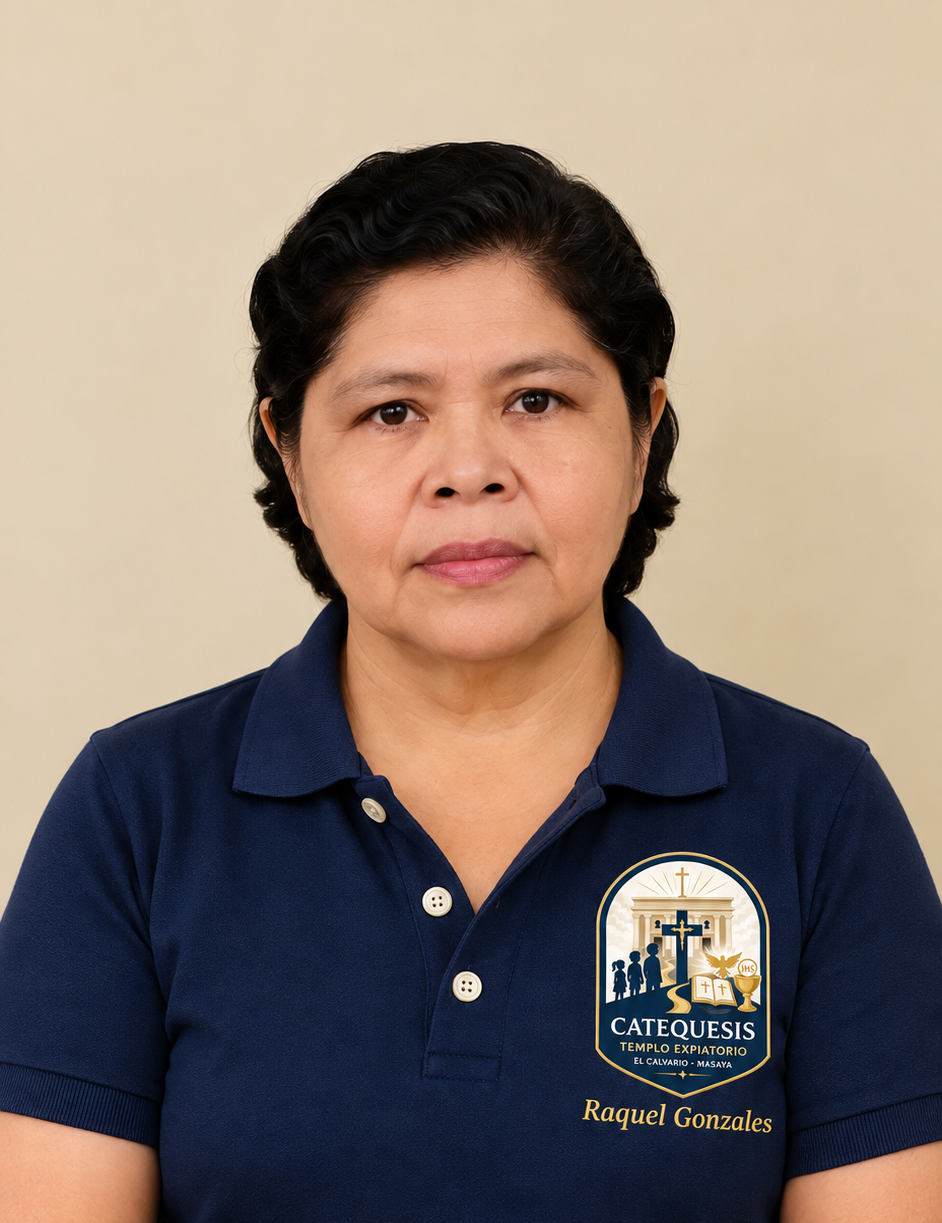
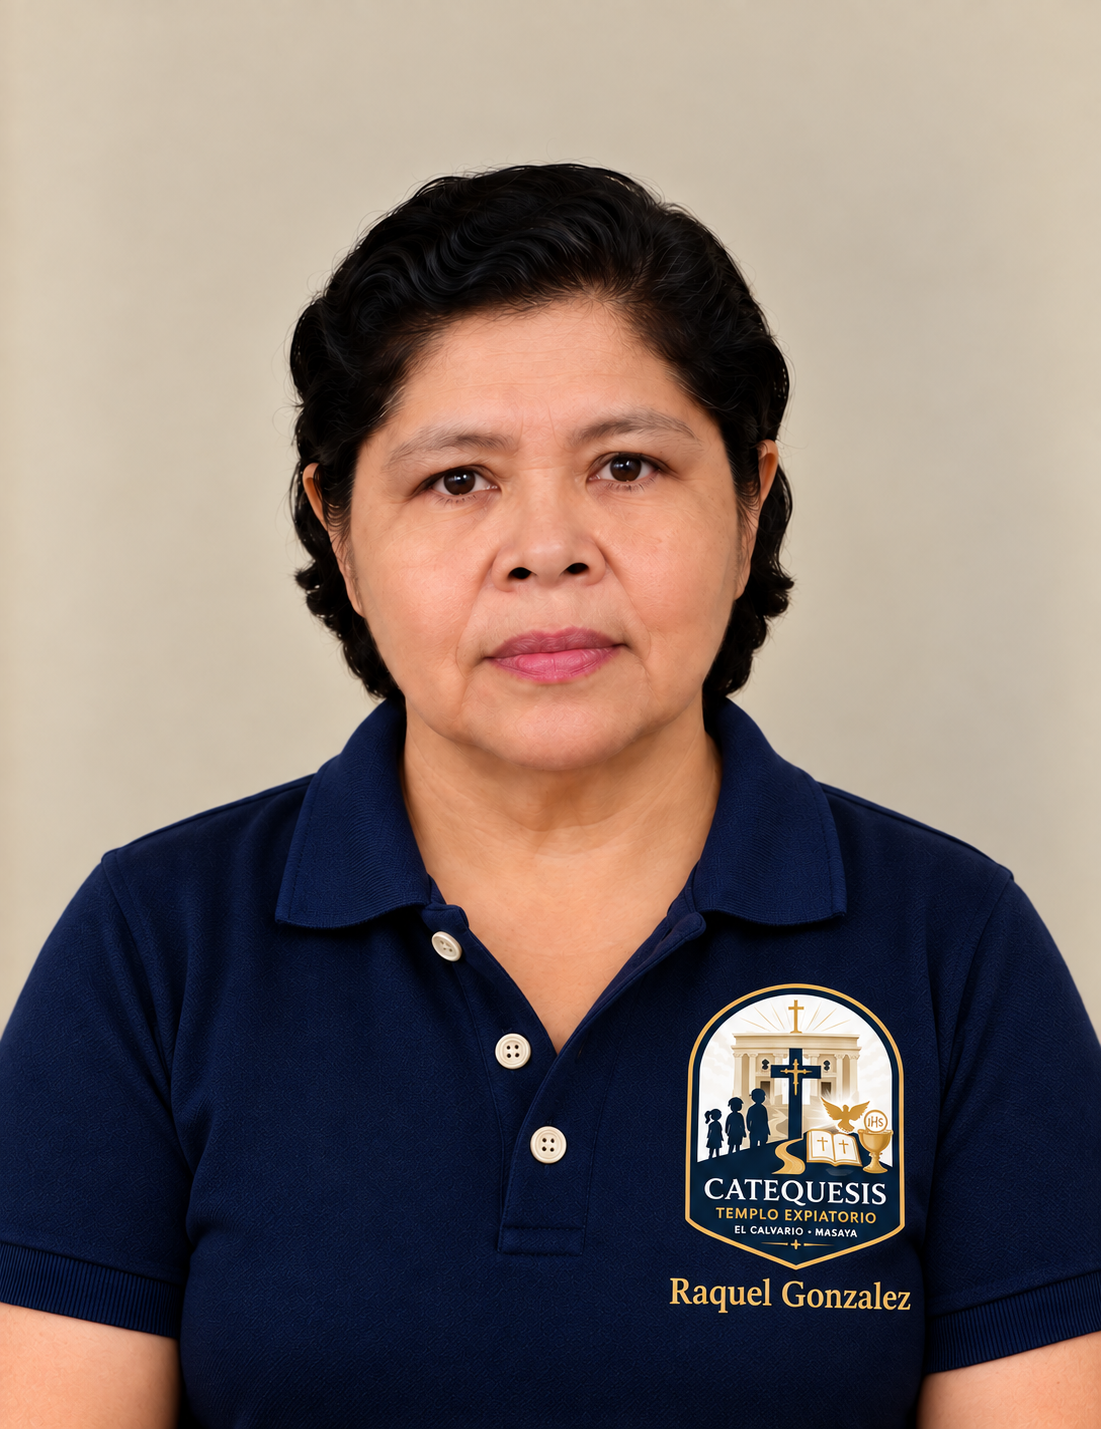
fixing issue with images

diff --git a/src/components/Catechists.tsx b/src/components/Catechists.tsx
@@ -2,6 +2,14 @@ import { useState } from "react";
 import { catechists, type Catechist } from "../data/catechesis";
 import { Eyebrow, Icon, Lead, PhotoPlaceholder, Reveal, Section, Title, useModalLayer } from "./ui";
 
+/** Vertical anchor of the card's crop for each `encuadre` option in the panel. */
+const CROP_POSITION: Record<string, string> = {
+  arriba: "0%",
+  normal: "30%",
+  centro: "50%",
+  abajo: "100%",
+};
+
 /**
  * Catechist team. Managed from /admin → Catequistas; the order is set by each entry's
  * `orden` field.
@@ -37,11 +45,13 @@ export function Catechists() {
               className="group flex h-full w-full flex-col overflow-hidden rounded-2xl border border-navy/[0.08] bg-white text-left shadow-card transition-all hover:-translate-y-1 hover:shadow-lift"
             >
               {c.foto ? (
-                // Anchored to the top: in portraits the head is up there, and centering
-                // the crop cut off the top of it.
-                <img src={c.foto} alt={c.nombre} loading="lazy" className="aspect-[4/5] w-full object-cover object-top" />
+                // 2:3 is the shape of most of the portraits, so they show whole. Taller
+                // ones (9:16) get cropped: "normal" keeps the head and the shirt logo.
+                <img src={c.foto} alt={c.nombre} loading="lazy"
+                  className="aspect-[2/3] w-full object-cover"
+                  style={{ objectPosition: `center ${CROP_POSITION[c.encuadre ?? "normal"] ?? "30%"}` }} />
               ) : (
-                <PhotoPlaceholder label={c.nombre} className="aspect-[4/5] w-full" />
+                <PhotoPlaceholder label={c.nombre} className="aspect-[2/3] w-full" />
               )}
 
               <div className="flex flex-1 flex-col p-6">

diff --git a/src/data/catechesis.ts b/src/data/catechesis.ts
@@ -66,6 +66,8 @@ export interface Catechist {
   frase: string;
   /** Photo path. Empty = a "photo to be defined" placeholder is drawn. */
   foto?: string;
+  /** Which part of the photo the card keeps when it has to crop it. Empty = "normal". */
+  encuadre?: "arriba" | "normal" | "centro" | "abajo";
 }
 export const catechists = loadCollection<Catechist>(
   import.meta.glob("../../content/catequistas/*.json", { eager: true })
